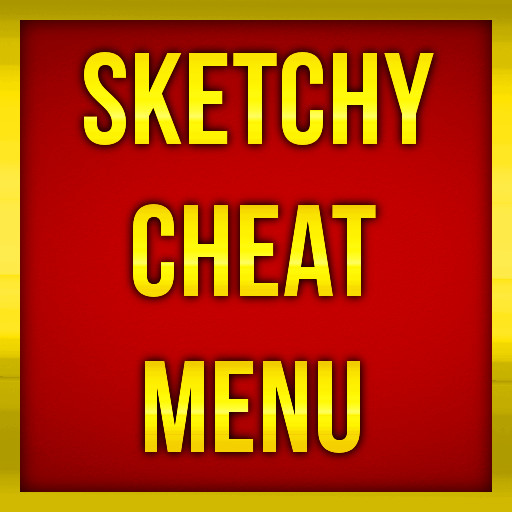
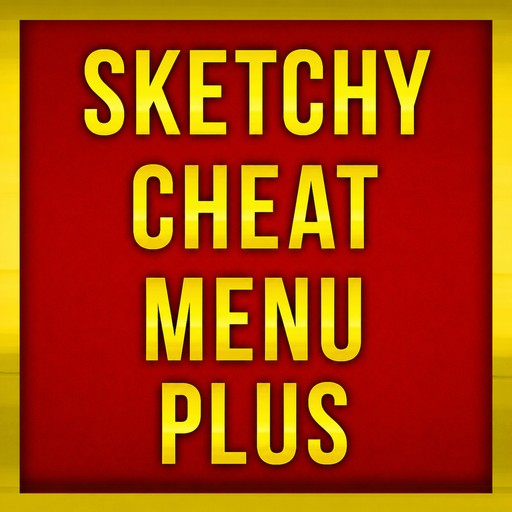
v0.12.3 - Mod thumbnail Plus rebrand
Updated the mod thumbnail for SCMP.

diff --git a/CHANGELOG.md b/CHANGELOG.md
@@ -4,6 +4,11 @@ All notable changes to this project will be documented in this file.
 
 The format is based on [Keep a Changelog](https://keepachangelog.com/en/1.1.0/), and this project adheres to [Semantic Versioning](https://semver.org/spec/v2.0.0.html).
 
+## [0.12.3] - 2026-06-30
+
+### Changed
+- Updated the mod thumbnail for SCMP.
+
 ## [0.12.2] - 2026-06-30
 
 ### Added